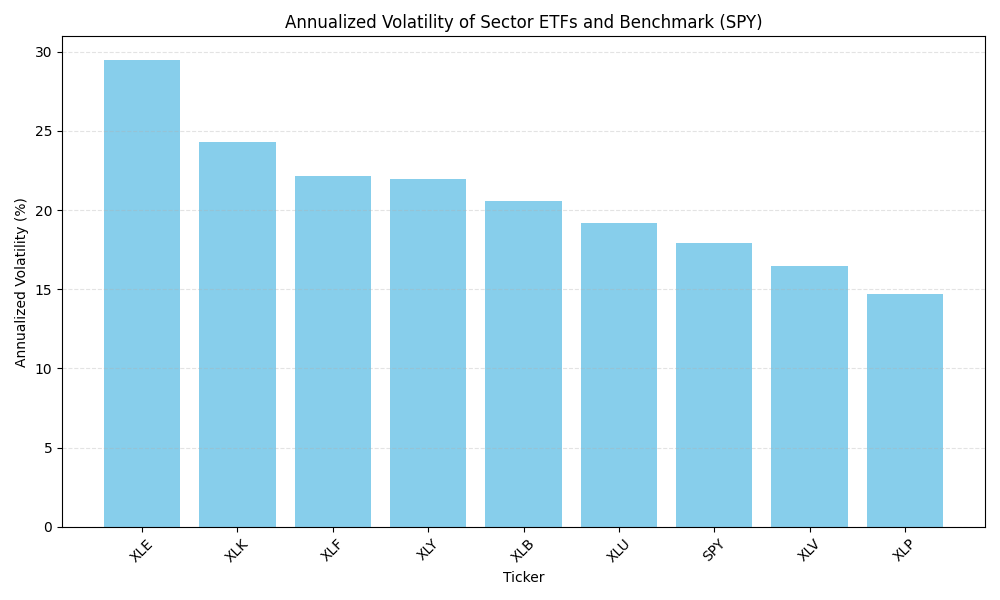
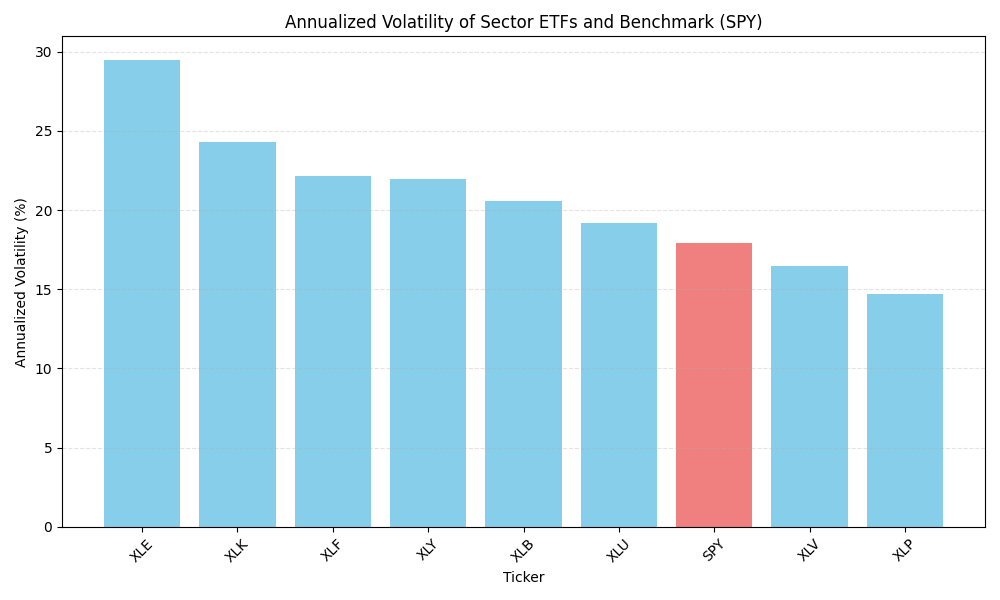
Make SPY obvious in bar chart with different color

Changed region(s): [[0.651, 0.39, 0.775, 0.9]]

diff --git a/src/04_analysis.py b/src/04_analysis.py
@@ -134,7 +134,8 @@ print("Saved volatility table.")
 
 # plot the volatility comparison as a bar chart
 plt.figure(figsize=(10, 6))
-plt.bar(volatility_table["ticker"], volatility_table["Annualized Volatility (%)"], color="skyblue")
+colors = ["lightcoral" if ticker == "SPY" else "skyblue" for ticker in volatility_table["ticker"]]
+plt.bar(volatility_table["ticker"], volatility_table["Annualized Volatility (%)"], color=colors)
 plt.title("Annualized Volatility of Sector ETFs and Benchmark (SPY)") 
 plt.xlabel("Ticker")
 plt.ylabel("Annualized Volatility (%)")
